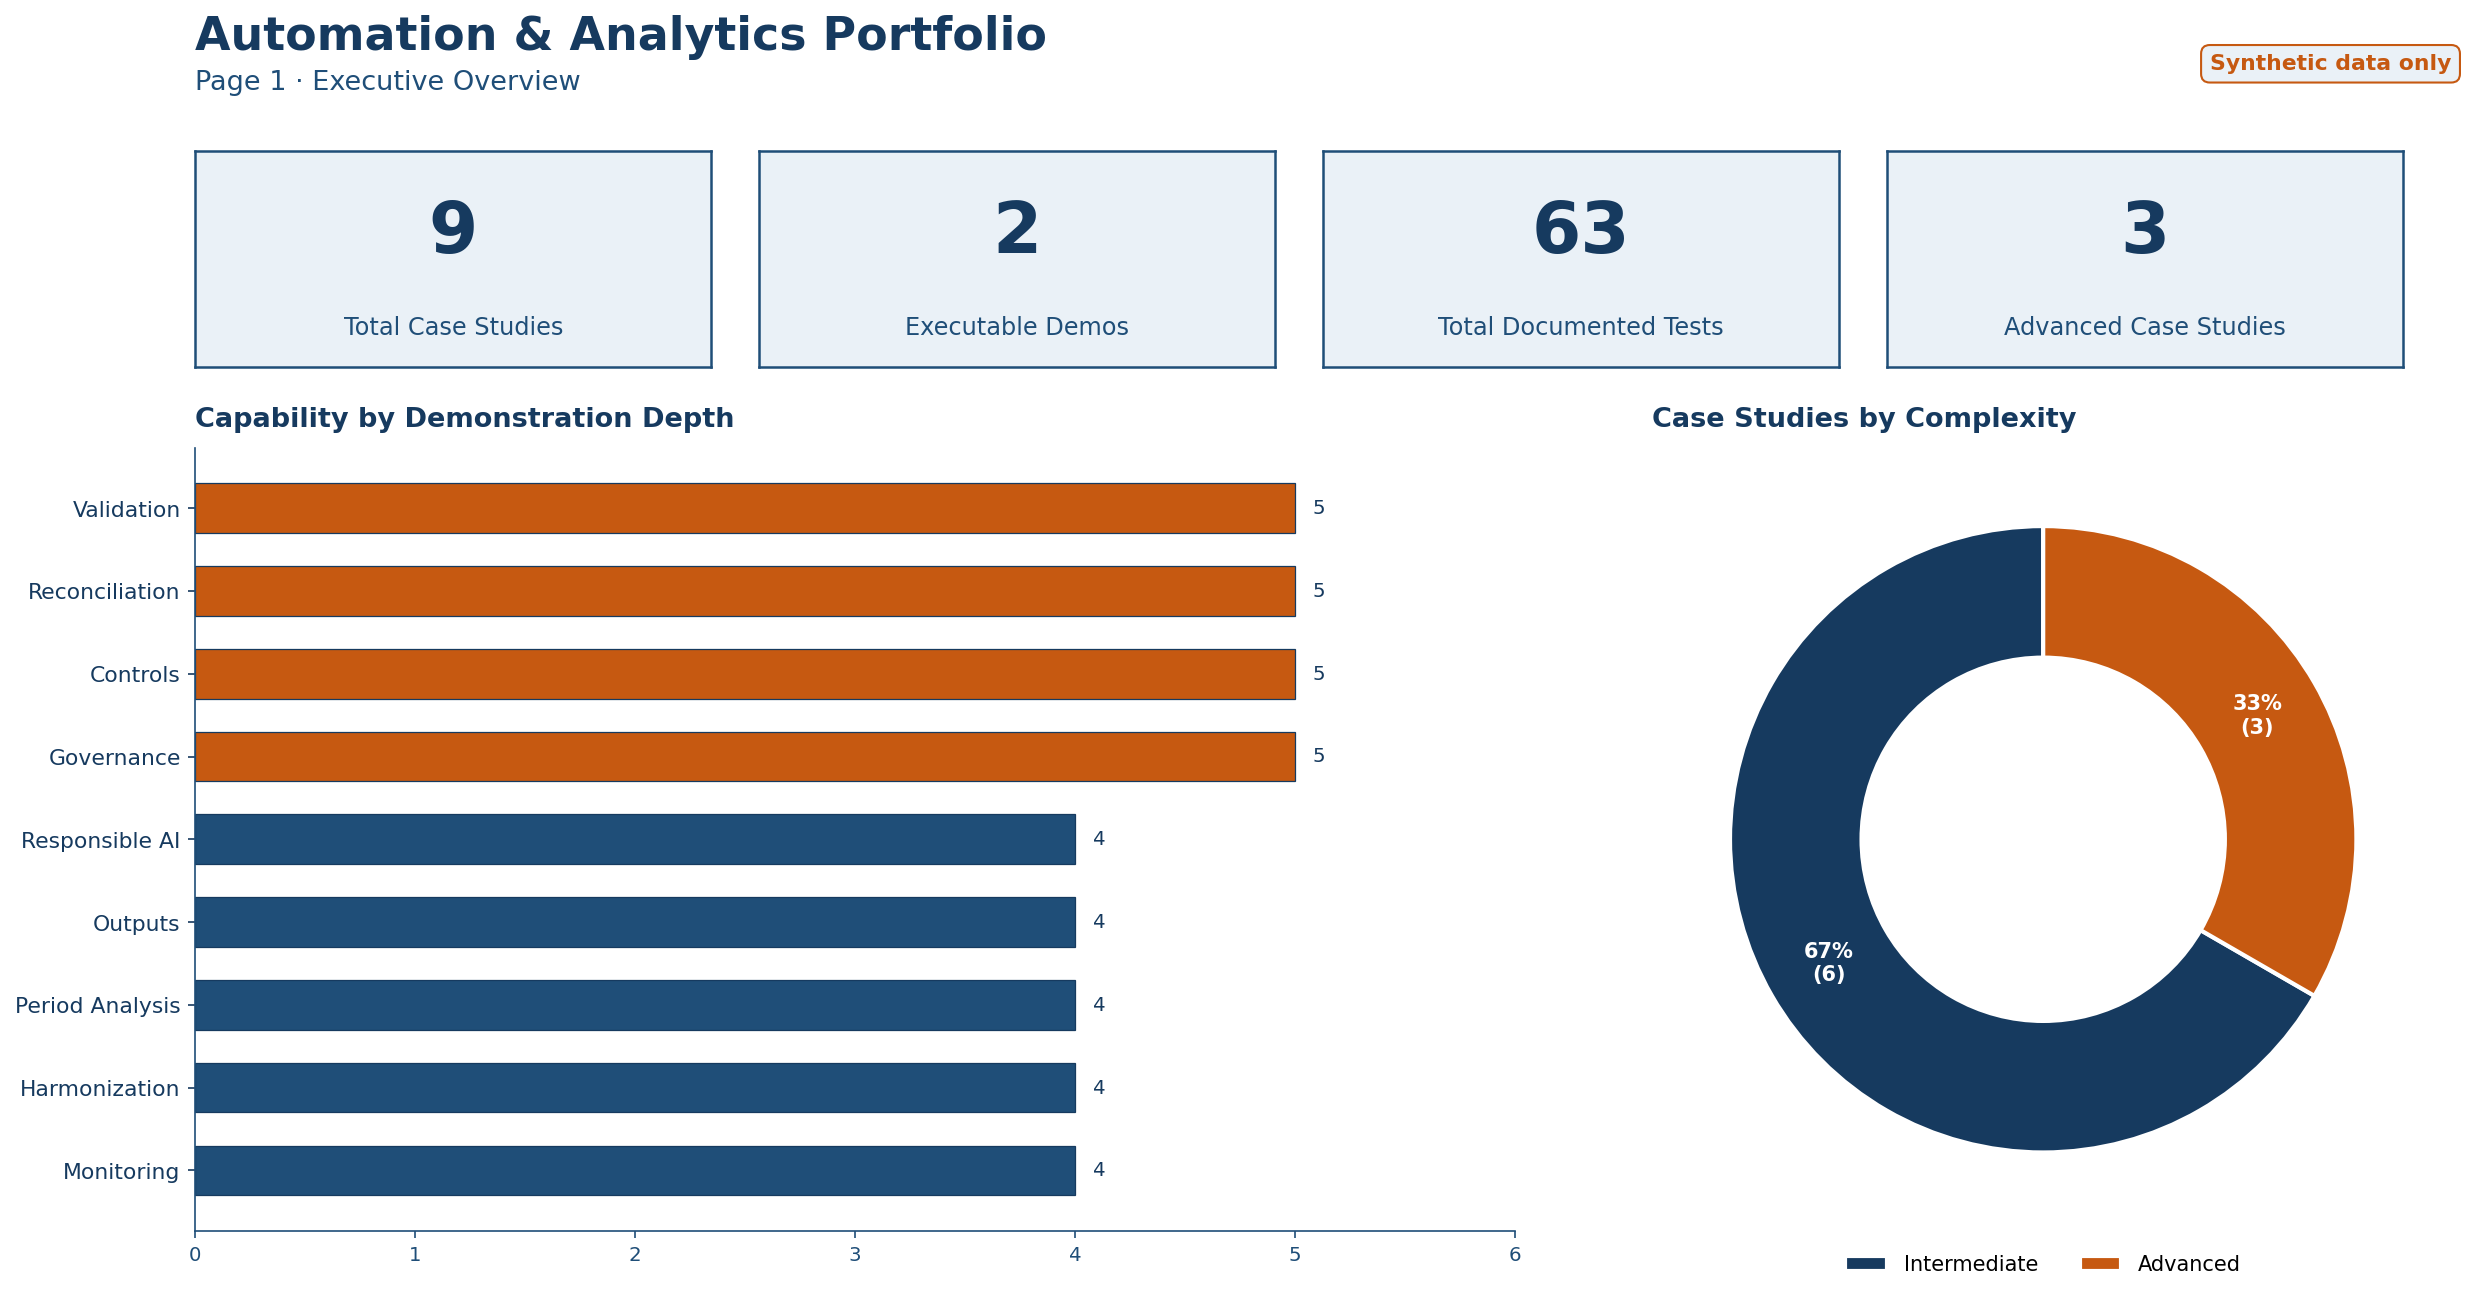
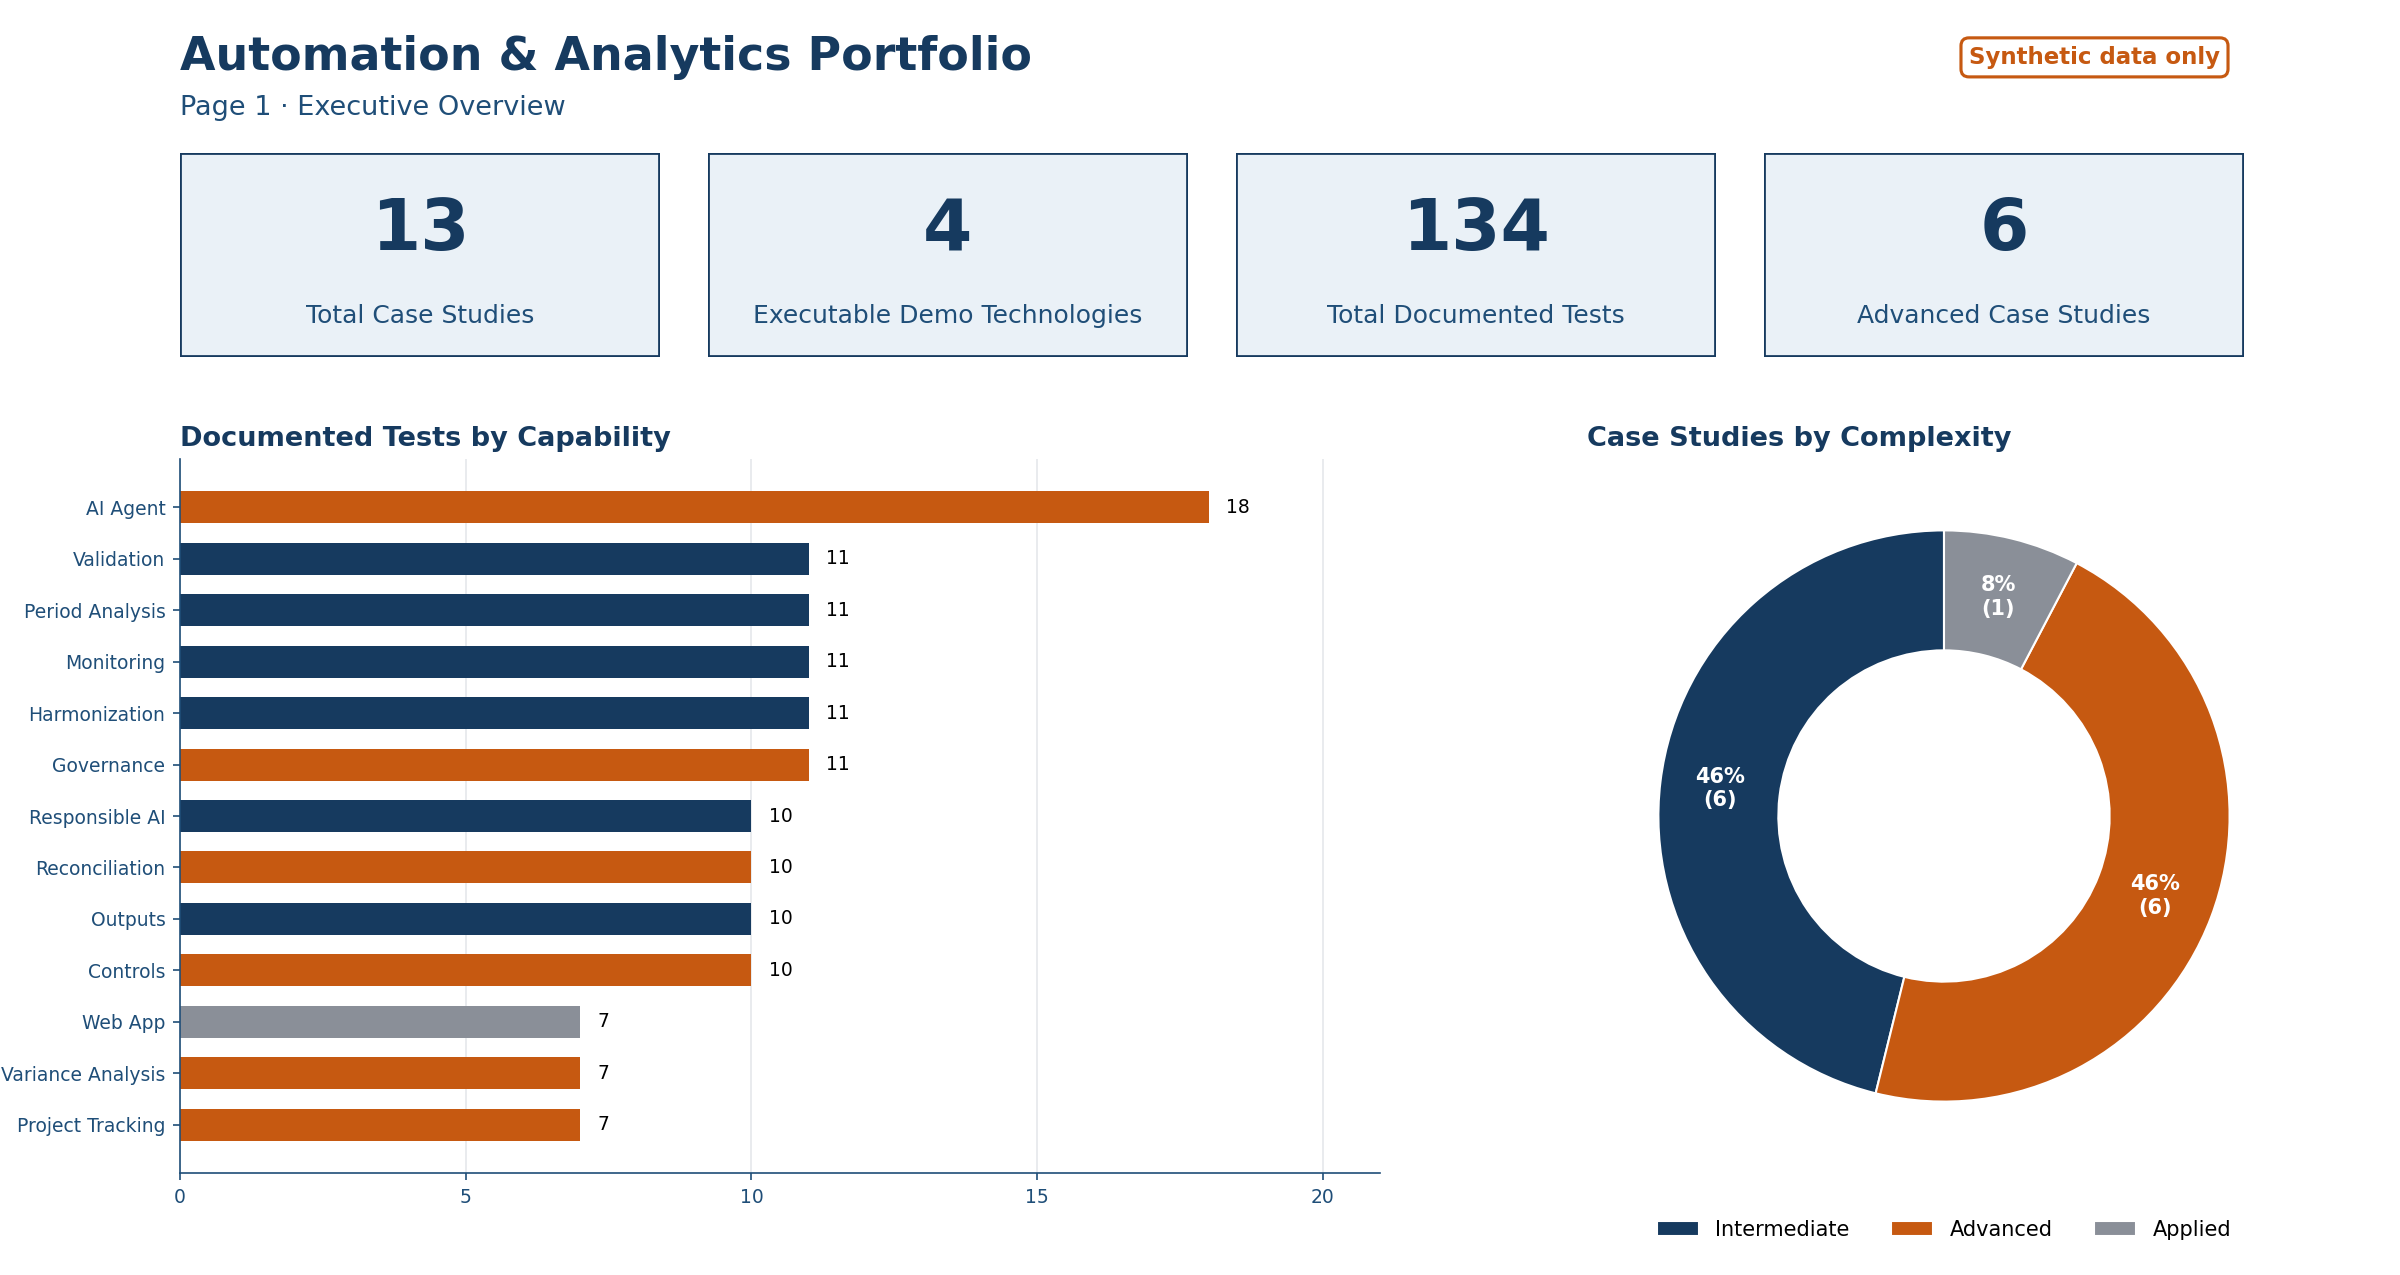
Power Bi Changes

diff --git a/demo/power-bi-portfolio-dashboard/README.md b/demo/power-bi-portfolio-dashboard/README.md
@@ -4,15 +4,15 @@ A 3-page dashboard built on this portfolio's own metadata: how many case studies
 
 The `.pbix` isn't included. A binary can't be diffed and it requires Power BI Desktop just to look at it. This folder has the data, the DAX measures and the layout spec to rebuild it, plus screenshots to judge the output without opening anything.
 
-**Executive Overview.** Case counts, demo counts, test counts, and a quick read on the complexity mix.
+**Executive Overview.** Case, technology and test counts, documented tests by capability, and the complexity mix.
 
 ![Executive Overview](screenshots/page1_executive_overview.png)
 
-**Case Study Explorer.** Every case in a matrix, with conditional formatting on demonstration depth.
+**Case Study Explorer.** All thirteen cases in a matrix with depth, test count, data classification and status.
 
 ![Case Study Explorer](screenshots/page2_case_study_explorer.png)
 
-**Executable Demo Results.** Accepted and exception counts from the runnable demos, by technology.
+**Executable Demo Results.** Accepted and exception counts for each of the seven runnable pieces.
 
 ![Executable Demo Results](screenshots/page3_executable_demo_results.png)
 
@@ -24,4 +24,4 @@ The `.pbix` isn't included. A binary can't be diffed and it requires Power BI De
 
 The screenshots came from this spec and data, so what you build should land close.
 
-The CSVs cover all thirteen cases and the seven runnable pieces. The screenshots were rendered from the nine-case version and are pending a refresh.
+The CSVs cover all thirteen cases and the seven runnable pieces, and the page renders above were produced from those same files and the spec.

diff --git a/demo/power-bi-portfolio-dashboard/DASHBOARD_SPEC.md b/demo/power-bi-portfolio-dashboard/DASHBOARD_SPEC.md
@@ -1,20 +1,20 @@
 # Dashboard Specification
 
 ## Page 1: Executive Overview
-- Cards: Total Case Studies, Executable Demos, Total Documented Tests, Advanced Case Studies
-- Horizontal bar chart: capability by demonstration depth
-- Donut chart: case studies by complexity
+- Cards: Total Case Studies, Executable Demo Technologies, Total Documented Tests, Advanced Case Studies
+- Horizontal bar chart: documented tests by capability, colored by complexity (depth is 5 across the board, so tests are the axis with information)
+- Donut chart: case studies by complexity (Intermediate, Advanced, Applied)
 - Slicer: capability
 - Text callout: Synthetic data only
 
 ## Page 2: Case Study Explorer
-- Matrix: case ID, capability, complexity, depth, tests, status
+- Matrix: case ID, capability, complexity, depth, tests, data classification, status
 - Conditional formatting on demonstration depth
 - Slicers: complexity, capability, status
 - Tooltip: data classification
 
 ## Page 3: Executable Demo Results
-- Clustered column chart: accepted vs exception count by technology
+- Clustered column chart: accepted vs exception count by demo
 - Cards: Total Accepted Records, Total Exception Records, Exception Rate
 - Table: demo name, technology, test status, data classification
 - Slicer: technology

diff --git a/ROADMAP.md b/ROADMAP.md
@@ -4,7 +4,7 @@ Done: thirteen case studies at depth 5 on the written rubric, the shared case pi
 
 Probably next, in this order:
 
-- Refresh the Power BI screenshots. The data and spec already cover thirteen cases; the images still show nine.
+- Rebuild the .pbix locally from the spec now that the data covers thirteen cases; the page renders are current.
 - A second Power Automate flow for the agent that logs questions the SOPs don't answer, so the gap list builds itself.
 - A UiPath or Power Automate Desktop demo, once there is something worth showing.
 

diff --git a/demo/power-bi-portfolio-dashboard/DAX_MEASURES.md b/demo/power-bi-portfolio-dashboard/DAX_MEASURES.md
@@ -13,7 +13,9 @@ CALCULATE(
 
 Total Documented Tests = SUM(portfolio_cases[documented_tests])
 
-Executable Demos = DISTINCTCOUNT(demo_execution[technology])
+Executable Demo Technologies = DISTINCTCOUNT(demo_execution[technology])
+
+Executable Demos = COUNTROWS(demo_execution)
 
 Total Accepted Records = SUM(demo_execution[accepted_count])
 
